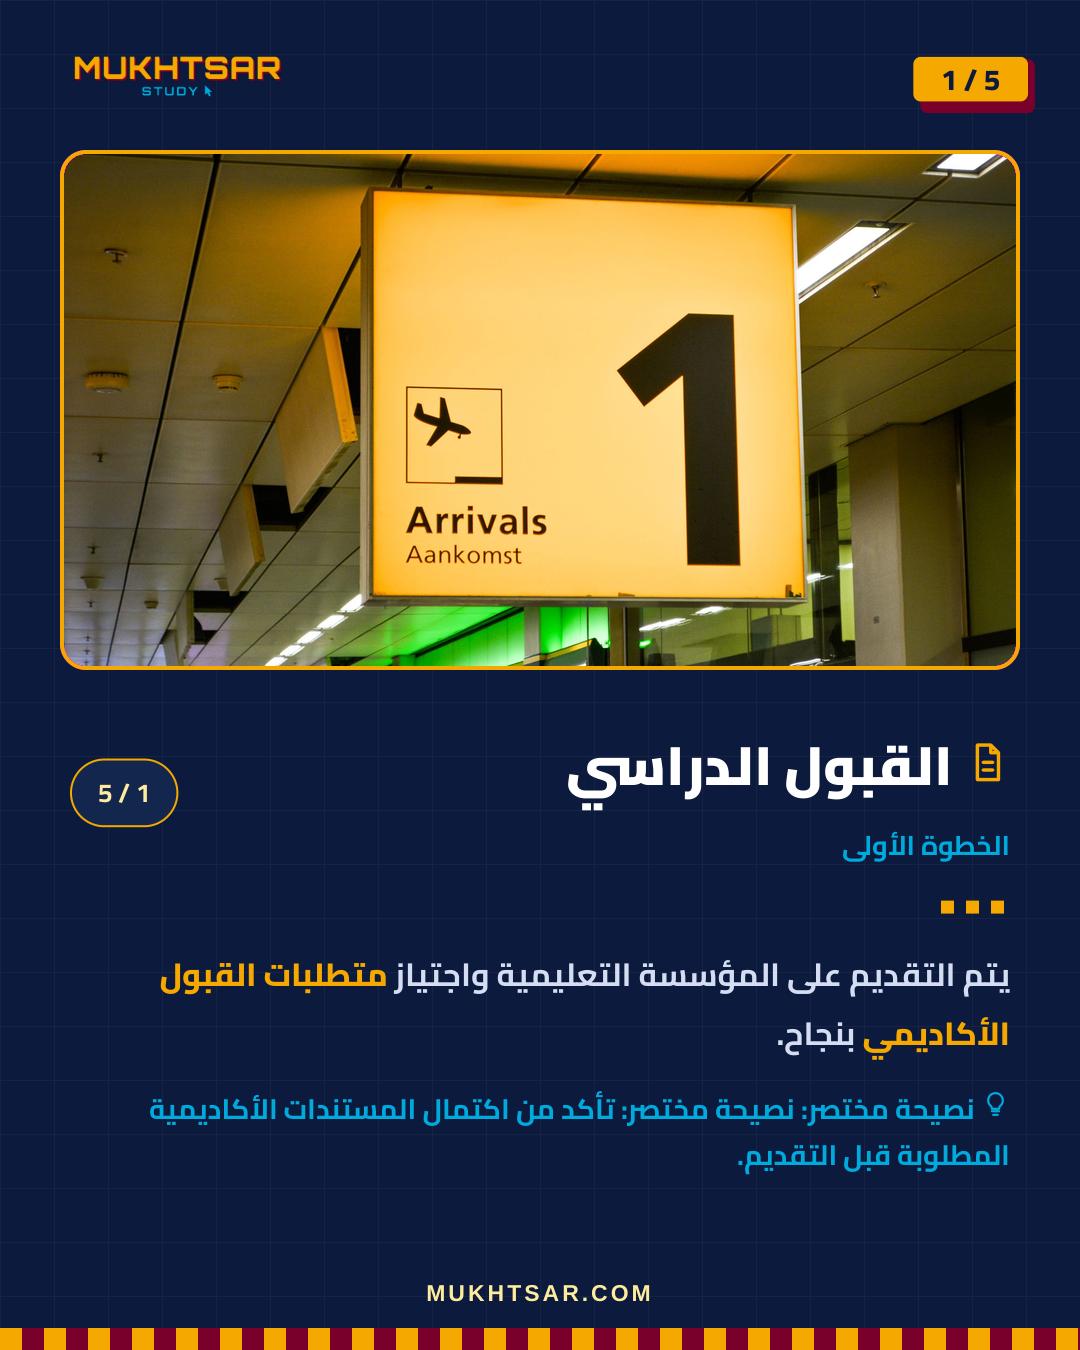
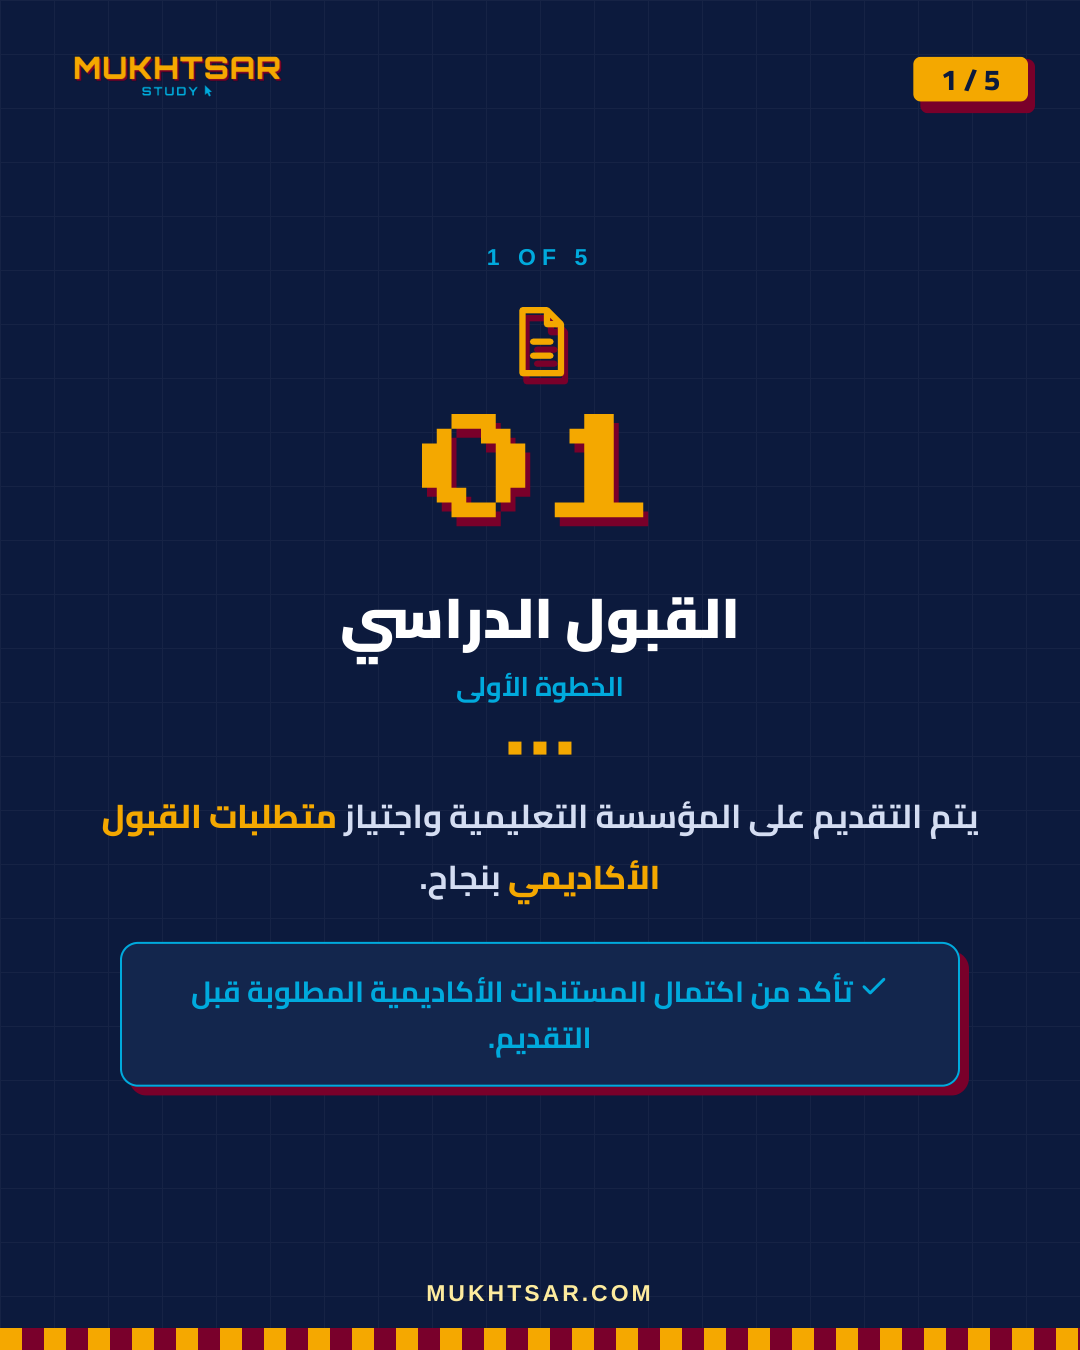
Rebuild scheduled carousels with layout fixes

diff --git a/src/generate.py b/src/generate.py
@@ -106,7 +106,8 @@ Return ONLY a JSON object, no markdown fences, no commentary:
       "title": "Arabic, 2-4 words",
       "subtitle": "Arabic, short qualifier",
       "body": "one Arabic sentence. Wrap ONE phrase in <span class='hl'>...</span>",
-      "tip": "optional, start with 'نصيحة مختصر:'"
+      "tip": "optional, WITHOUT any prefix - the layout adds one",
+      "photo": "2-5 English words naming what to PHOTOGRAPH for this point. Be concrete and specific to THIS point, not the topic. Name Malaysia or Kuala Lumpur. Prefer objects, places and documents over city skylines."
     }
   ],
   "cta": {
@@ -198,14 +199,32 @@ def call_gemini(prompt: str, timeout: int | None = None) -> str:
 
 
 def parse_json(text: str) -> dict:
-    """Tolerate markdown fences even though the schema forbids them."""
+    """
+    Parse the model's reply, repairing the two things it gets wrong in practice:
+    markdown fences it was told not to use, and trailing commas.
+
+    Truncation is not repaired. A reply cut off mid-sentence would yield a
+    half-written slide, and silently salvaging it is worse than failing —
+    the caller retries instead.
+    """
     cleaned = re.sub(r"^```(?:json)?|```$", "", text.strip(),
                      flags=re.MULTILINE).strip()
     try:
         return json.loads(cleaned)
+    except json.JSONDecodeError:
+        pass
+
+    repaired = re.sub(r",(\s*[}\]])", r"\1", cleaned)
+    try:
+        return json.loads(repaired)
     except json.JSONDecodeError as exc:
+        truncated = not cleaned.rstrip().endswith("}")
+        why = ("the reply was cut off before it finished"
+               if truncated else f"{exc}")
         raise GenerationError(
-            f"Gemini did not return valid JSON: {exc}\n{cleaned[:300]}") from exc
+            f"Gemini did not return usable JSON — {why}.\n"
+            f"  Raise generation.max_output_tokens in settings.yaml if this "
+            f"keeps happening.\n{cleaned[-200:]}") from exc
 
 
 # ------------------------------------------------------------------ verify
@@ -267,6 +286,20 @@ def flag_all(obj):
 
 
 # ------------------------------------------------------------------- draft
+class _NoAliases(yaml.SafeDumper):
+    """
+    Never emit YAML anchors.
+
+    safe_dump reuses one object with an &anchor and *alias. Harmless alone,
+    but every draft numbers its anchors from id001, so appending a second one
+    to topics.yaml produces a duplicate-anchor error and the whole bank fails
+    to parse.
+    """
+
+    def ignore_aliases(self, data) -> bool:
+        return True
+
+
 def to_draft_yaml(idea: dict, gen: dict, flagged: int,
                   with_images: bool) -> str:
     icon = idea.get("icon", "check")
@@ -297,7 +330,7 @@ def to_draft_yaml(idea: dict, gen: dict, flagged: int,
         },
     }
     if with_images and kw:
-        topic["cover"]["keywords"] = kw
+        topic["cover"]["keywords"] = list(kw)
 
     for it in gen.get("items", []):
         entry = {
@@ -308,8 +341,15 @@ def to_draft_yaml(idea: dict, gen: dict, flagged: int,
         }
         if it.get("tip"):
             entry["tip"] = it["tip"]
-        if with_images and kw:
-            entry["keywords"] = kw
+        # Per-slide query. Reusing one topic-level keyword list for every
+        # slide returned four near-identical KL skylines for a carousel about
+        # opening a bank account.
+        if with_images:
+            photo = (it.get("photo") or "").strip()
+            if photo:
+                entry["keywords"] = [photo]
+            elif kw:
+                entry["keywords"] = list(kw)
         topic["items"].append(entry)
 
     header = f"""\
@@ -327,8 +367,8 @@ def to_draft_yaml(idea: dict, gen: dict, flagged: int,
 # but it has no way to know what is true about Malaysian universities today.
 
 """
-    body = yaml.safe_dump({"topics": [topic]}, allow_unicode=True,
-                          sort_keys=False, width=100)
+    body = yaml.dump({"topics": [topic]}, Dumper=_NoAliases,
+                     allow_unicode=True, sort_keys=False, width=100)
     return header + body
 
 
@@ -380,7 +420,13 @@ def generate(idea: dict, with_images: bool = False,
     survives two attempts is returned so the caller can warn about it — it is
     NOT silently accepted.
     """
-    gen = parse_json(call_gemini(build_prompt(idea, no_figures)))
+    # One retry on a malformed reply: truncation and stray commas are
+    # intermittent, and losing the whole run to one bad response is not worth it.
+    try:
+        gen = parse_json(call_gemini(build_prompt(idea, no_figures)))
+    except GenerationError as first:
+        print(f"    malformed reply, retrying once ({first})")
+        gen = parse_json(call_gemini(build_prompt(idea, no_figures)))
     figures = find_figures(gen)
 
     if no_figures and figures:

diff --git a/config/layouts.py b/config/layouts.py
@@ -82,6 +82,21 @@ def _layered_icon(name: str, size: int, t: dict) -> str:
             f'{icon(name, size, t["pixel_fill"] if t["name"]=="Option B" else t["accent"])}</div></div>')
 
 
+def _strip_tip_prefix(tip: str) -> str:
+    """
+    Drop a leading "نصيحة مختصر:" from the tip text.
+
+    The layout already prints that label, and topics written by the generator
+    include it too because the schema asks for it — which rendered as
+    "نصيحة مختصر: نصيحة مختصر: ...".
+    """
+    cleaned = (tip or "").strip()
+    for prefix in ("نصيحة مختصر:", "نصيحة مختصر :", "نصيحة مختص:"):
+        if cleaned.startswith(prefix):
+            return cleaned[len(prefix):].strip()
+    return cleaned
+
+
 def _shell(t: dict, assets: str, fonts: str, body: str, tag: str,
            source: str = "") -> str:
     src_html = f'<div class="src">{source}</div>' if source else ""
@@ -128,11 +143,12 @@ def item(t, assets, fonts, *, index, total, icon_name, title, subtitle,
                 f' border:2px solid {t["frame_border"]}; border-radius:50px;'
                 f' padding:8px 26px; font-weight:700; font-size:26px;'
                 f' color:{t["footer"] if t["name"]=="Option A" else t["tag_text"]}">'
-                f'{index} / {total}</span>')
+                f'<span class="ltr">{index} / {total}</span></span>')
         tip_html = ("" if not tip else
                     f'<div style="margin-top:22px; font-weight:700; font-size:28px;'
                     f' color:{t["accent_2"]}; line-height:1.65">'
-                    f'{icon("bulb", 29, t["accent_2"])} نصيحة مختصر: {tip}</div>')
+                    f'{icon("bulb", 29, t["accent_2"])} '
+                    f'نصيحة مختصر: {_strip_tip_prefix(tip)}</div>')
         body = f"""<div class="photowin"></div>
 <div style="position:absolute; top:715px; left:0; width:100%; padding:0 70px; text-align:right">
   <div style="display:table; width:100%">
@@ -156,7 +172,7 @@ def item(t, assets, fonts, *, index, total, icon_name, title, subtitle,
     <div style="position:relative; background:{t['card_bg']};
          border:2px solid {t['accent_2']}; border-radius:18px; padding:24px 26px">
       <div style="font-weight:700; font-size:29px; color:{t['accent_2']}; line-height:1.6">
-        {icon('check', 30, t['accent_2'])} {tip}</div>
+        {icon('check', 30, t['accent_2'])} {_strip_tip_prefix(tip)}</div>
     </div>
   </div>""")
         body = f"""
